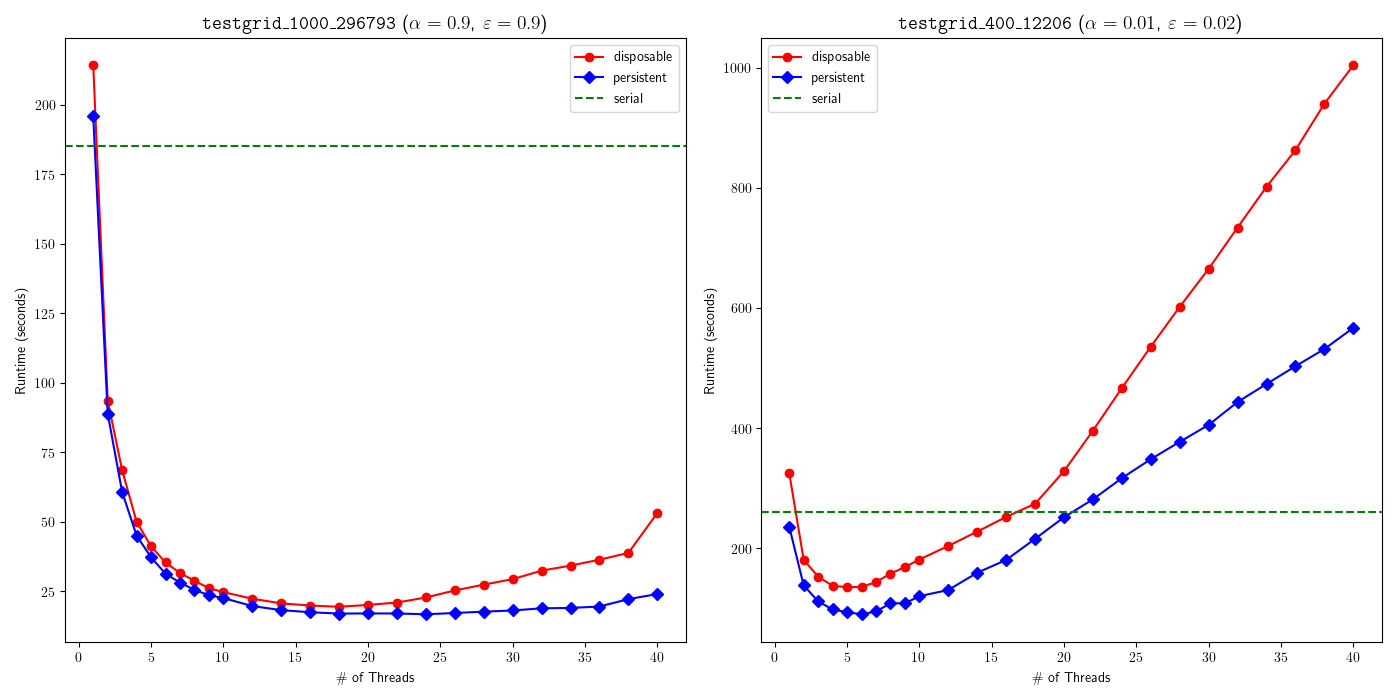
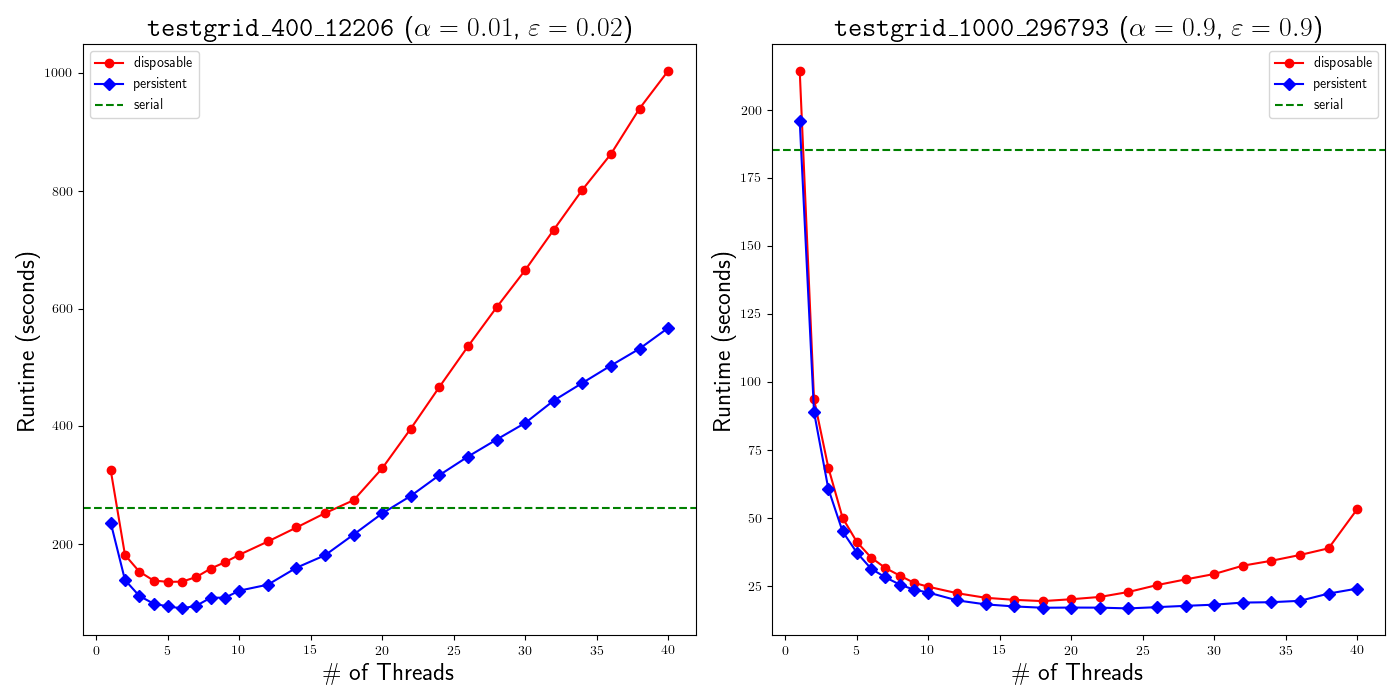
Worked on report and fixed plot

diff --git a/pa2/src/report.tex b/pa2/src/report.tex
@@ -30,7 +30,7 @@
 
 \title{
 CSE 5441 (Fall 2019, Dr. Jones)\\
-\large Serial AMR (Lab 1)
+\large POSIX Threads AMR (Lab 2)
 }
 \author{
 Caleb Lehman \\
@@ -43,81 +43,135 @@ Caleb Lehman \\
 \section*{Overview}
 \label{sec:overview}
 
-For this lab, I prepared a serial \texttt{C} program to perform a serial
-Adaptive Mesh Refinement (AMR)\footnote{In this case, the \emph{mesh} is static,
-so the program may be more accurately described as a serial \emph{stencil
-code/computation.}}. The input to the problem is a tiling of a rectuangular
-grid composed of disjoint boxes along with their initial
-temperatures\footnote{While the values are specifically assumed to be temperatures,
-the setup is general enough to encompass any type of values. Throughout the
-report, I simply refer to them as ``Domain Specific Values'' (DSV).}. The
-program then iteratively updates the values in each box based on the current
-values of neighboring boxes. In addition to the inputs described above, two
-additional inputs are given: $\alpha$ (affect-rate), which determines the
-magnitude of the effect of neighboring boxes, and $\varepsilon$ (epsilon),
-which determines when convergence is reached an the program terminates.
+For this lab, I modified the previous serial \texttt{C} program to perform
+Adapetive Mesh Refinement (AMR)\footnote{See previous lab or project
+descriptions for details about AMR computation.} to work in parallel using the
+POSIX Threads (\texttt{pthreads}) library. I created two programs,
+\texttt{disposable} and \texttt{persistent}, which employ different strategies
+for thread creation and destruction (see \textbf{TODO} hyperref [] {}). I
+tested these programs on two test files with different numbers of therads to
+compare performance against the serial version and against each other.
 
-\subsection*{Algorithm}
-\label{subsec:algorithm}
+\subsection*{Results Summary}
+\label{subsec:results-summary}
 
-Given $\alpha$, $\varepsilon$, a description of grid-aligned boxes, and initial
-Domain Specific Values (DSV), the rough pseudocode for my implementation is as
-follows:
+As expected, the \emph{persistent threads} model outperformed the
+\emph{disposable threads} model, most likely due to less overhead from not
+destroying and recreating threads each iteration. Both parallel programs
+outperformed the serial version (at least for optimal choices of number of
+threads).
+
+\begin{itemize}
+
+    \item The optimal number of threads for the smaller test case
+    (\texttt{testgrid\textunderscore 400\textunderscore 12206}) was 6 for both
+    programs.
+
+    \item The optimal number of threads for the larger test case
+    (\texttt{testgrid\textunderscore 1000\textunderscore 296793}) was $\sim$20
+    for both programs.
+    
+    \item At the optimal numbers of threads, the \texttt{disposable} program
+    was 1.9x faster than the serial program on the small test case and 9.2x
+    faster on the large test case.
+
+    \item At the optimal numbers of threads, the \texttt{persistent} program
+    was 2.9x faster than the serial program on the small test case and 10.9x
+    faster on the large test case.
+
+\end{itemize}
+
+I used all 4 timing methods from lab 1 to collect timing data. All the timing
+results I show in this report were collected from \texttt{clock\textunderscore
+gettime}. Of particular note is that the \texttt{clock} function from the
+\texttt{"time.h"} header is not particulary useful for our purposes, as it
+reports CPU time, not wall time. As a result, it consistently returns a
+significantly longer time than the actual time the program took to run.
+
+See the \textbf{TODO} section for a more detailed discussion of the results.
+
+\newpage
+\section*{Pseudocodes}
+\label{sec:pseudocoes}
+
+\subsection*{\emph{Disposable Threads} Model}
+
+Given $\alpha$, $\varepsilon$, a description of grid-aligned boxes, initial
+Domain Specific Values (DSV), and a number of threads, the rough pseudocode for
+my implementation following the \emph{disposable threads} model is as follows:
 
 \begin{algorithm}
 \begin{algorithmic}[1]
-\Procedure{AMR}{$\alpha$, $\varepsilon$, $N$, $Boxes$, $Initial DSV$}
-\State $DSV \gets Initial DSV$
-\State $DSV' \gets Initial DSV$
+\Procedure{Disposable}{$\alpha$, $\varepsilon$, $N$, $Boxes$, $Initial DSV$, $nthreads$}
+\State $DSV \gets Initial DSV$, $DSV' \gets Initial DSV$
 \While{$(\max{DSV} - \min{DSV})$ / $\max{DSV} > \varepsilon$} \label{alg:amr:convergence}
-    \For{$i < N$}
-        \State $DSV'[i] \gets (1 - \alpha)\cdot DSV[i] + \alpha \cdot \sum_{j\in nhbr} DSV[j]\cdot \Call{Overlap}{i, j, Boxes}$ \label{alg:amr:stencil}
+    \State Create $nthreads$ threads
+    \ForAll{$threads$}
+        \State \Call{Worker}{$\alpha$, $\varepsilon$, $N$, $Boxes$, $Initial DSV$, $nthreads$}
     \EndFor
+    \State Join and destroy all threads
     \State $DSV \gets DSV'$ \label{alg:amr:commit}
 \EndWhile
+\EndProcedure
+\Procedure{Worker}{$\alpha$, $\varepsilon$, $N$, $Boxes$, $Initial DSV$, $nthreads$}
+    \State $tid \gets$ current thread number
+    \ForAll{$i \in [ tid\cdot \frac{N}{nthreads}, (tid + 1)\cdot \frac{N}{nthreads} ]$}
+        \State $DSV'[i] \gets (1 - \alpha)\cdot DSV[i] + \alpha \cdot \sum_{j\in nhbr} DSV[j]\cdot \Call{Overlap}{i, j, Boxes}$
+    \EndFor
 \EndProcedure
 \end{algorithmic}
 \end{algorithm}
 
-Note the use of the $\varepsilon$ (epsilon) parameter on
-line~\ref{alg:amr:convergence} to check for convergence and the use of the
-$\alpha$ (affect-rate) parameter on line~\ref{alg:amr:stencil} to weight the
-effect of neighboring boxes\footnote{Some boxes touch the edge of the grid, in
-which case they are assigned themselves as an additional neighbor. This is
-equivalent to assuming that the area outside the grid has the same DSV as the
-nearest box.}.  Updated DSV are commited on line~\ref{alg:amr:commit}. The
-particular implementation details can be found in the \texttt{common.c} and
-\texttt{amr.c} files, which contain the code for pre-processing the input and
-running the stencil code.
+To summarize, under this model, threads are created at the beginning of each
+iteration and execute updates in parallel. Then the threads are joined and
+destroyed and the updates are committed.
 
-\subsection*{Summary}
-\label{subsec:summary}
+\subsection*{\emph{Persistent Threads} Model}
 
-\begin{itemize}
+Given $\alpha$, $\varepsilon$, a description of grid-aligned boxes, initial
+Domain Specific Values (DSV), and a number of threads, the rough pseudocode for
+my implementation following the \emph{persistent threads} model is as follows:
 
-    \item Runtimes increased when either parameter was decrease, as expected.
+\begin{algorithm}
+\begin{algorithmic}[1]
+\Procedure{Persistent}{$\alpha$, $\varepsilon$, $N$, $Boxes$, $Initial DSV$, $nthreads$}
+\State $DSV \gets Initial DSV$, $DSV' \gets Initial DSV$
+\State Create $nthreads$ threads to execute \Call{Worker}{$\alpha$, $\varepsilon$, $N$, $Boxes$, $DSV$, $DSV'$, $nthreads$}
+\State Join and destroy all threads
+\EndProcedure
+\Procedure{Worker}{$\alpha$, $\varepsilon$, $N$, $Boxes$, $DSV$, $DSV'$, $nthreads$}
+    \State $tid \gets$ current thread number
+    \State $range \gets [ tid\cdot \frac{N}{nthreads}, (tid + 1)\cdot \frac{N}{nthreads} ]$
+    \While{$(\max{DSV} - \min{DSV})$ / $\max{DSV} > \varepsilon$}
+        \ForAll{$i \in range$}
+            \State $DSV'[i] \gets (1 - \alpha)\cdot DSV[i] + \alpha \cdot \sum_{j\in nhbr} DSV[j]\cdot \Call{Overlap}{i, j, Boxes}$
+        \EndFor
+        \State \texttt{BARRIER} to sync all threads
+        \State $DSV[range] \gets DSV'[range]$
+        \State \texttt{BARRIER} to sync all threads
+    \EndWhile
+\EndProcedure
+\end{algorithmic}
+\end{algorithm}
 
-    \item Selected parameters $\alpha=0.1$, $\varepsilon=0.2$, which yielded a
-    runtime of roughly 4 minutes to run with the
-    \texttt{testgrid\textunderscore 400\textunderscore 12206} file. Full timing
-    results with these parameters are presented in the
-    \hyperref[sec:results]{results section}.
+To summarize, under this model, threads are created at the beginning of the
+program and destroyed at the end. The threads run in parallel, updating each of
+their blocks of DSVs. The threads must be synchronized twice per iterations: 1)
+after computing the updates and 2) after commiting updates.
 
-\end{itemize}
-
-\newpage
 \section*{Tests}
 \label{sec:tests}
 
 \subsection*{Environment}
 \label{subsec:environment}
 
-The program was developed and tested on a single node of the
+The program was developed and tested on a single, 40-core node of the
 \href{https://www.osc.edu/resources/technical_support/supercomputers/pitzer}{Pitzer
 cluster} at the \href{https://www.osc.edu/}{Ohio Supercomputer Center}.
 
 For development, I loaded the \texttt{intel/18.0.3} module, which allowed the
-program to be compiled with version 18.0.3 of the \texttt{icc} C-compiler.
+program to be compiled with version 18.0.3 of the \texttt{icc} C-compiler. I
+linked against the \texttt{librt} and \texttt{libpthread} libraries.
 
 For testing, I loaded the \texttt{python/3.6-conda5.2} module, which loads a
 python environment with the \texttt{NumPy}, \texttt{SciPy}, and
@@ -126,90 +180,48 @@ python environment with the \texttt{NumPy}, \texttt{SciPy}, and
 \subsection*{Timing}
 \label{subsec:timing}
 
-The program was timed using several methods\footnote{Each method reports in
-different units/structues, all of which were converted seconds.}:
+I collected timing data using the same 4 methods as the first lab:
+\texttt{time}, \texttt{clock}, and \texttt{clock\textunderscore gettime} from
+the \texttt{"time.h"} header; and the \texttt{UNIX} utility \texttt{time}.
 
-\begin{itemize}
-    \item The \texttt{time} function declared in the \texttt{time.h} header
-    \item The \texttt{clock} function declared in the \texttt{time.h} header
-    \item The \texttt{clock\textunderscore gettime} function declared in the \texttt{time.h} header
-    \item The \texttt{UNIX} utility \texttt{time}
-\end{itemize}
+I didn't use the results from the \texttt{clock} function from the
+\texttt{"time.h"} header, since it reports CPU time, not wall time. The other
+methods all returned values within 1 second of each other. The \texttt{time}
+function declared in \texttt{"time.h"} returns an integer number of seconds,
+but the other two methods return with sub-second precision.  \emph{For
+consistency, I used the \texttt{clock\textunderscore gettime} function for all
+results in this report}.
 
 \subsection*{Test Files}
 \label{subsec:test_files}
 
-Dr. Jones provided several files for testing purposes:
+Dr. Jones provided the \texttt{testgrid\textunderscore 400\textunderscore 12206} test file.
+As part of lab 1, I reduced the $\alpha$ (affect rate) and $\epsilon$ parameters until the
+serial runtime increased into the 3 to 6 minute range. In particular, I selected $\alpha = 0.01$ and $\epsilon = 0.02$,
+for which the serial program completed in 261 seconds.
 
-\begin{itemize}
-    \item \texttt{testgrid\textunderscore 50\textunderscore 78}: 50x50 grid with 78 boxes
-    \item \texttt{testgrid\textunderscore 50\textunderscore 201}: 50x50 grid with 201 boxes
-    \item \texttt{testgrid\textunderscore 200\textunderscore 1166}: 200x200 grid with 1166 boxes
-    \item \texttt{testgrid\textunderscore 400\textunderscore 1636}: 400x400 grid with 1636 boxes
-    \item \texttt{testgrid\textunderscore 400\textunderscore 12206}: 400x400 grid with 12206 boxes
-\end{itemize}
+The above approach of changing the $\alpha$ and $\epsilon$ parameters allows us
+to make the programs run longer, but doesn't affect the actual length of each
+iteration. With only 12206 boxes, each iteration is fairly short \textbf{TODO},
+so it is expected the overhead of synchronizing threads would inhibit
+parallelizing beyond a small number of threads. In order to investigate this,
+I generated another test file, \texttt{testgrid\textunderscore 1000\textunderscore 12206}, \textbf{TODO}.
 
 \newpage
 \section*{Results}
 \label{sec:results}
 
-The first requirement of this project was to determine values for $\alpha$
-(affect-rate) and $\varepsilon$ (epsilon) such that the program converged in
-between 3 to 6 minutes when run on the \texttt{testgrid\textunderscore
-400\textunderscore 12206} test file. I ran a sweep over both parameters,
-capturing the runtimes reported by \texttt{clock\textunderscore gettime} (see
-Figure~\ref{fig:param_sweep}). As expected, the runtime increases when either
-of the parameters decrease.
-
-I selected parameters $\alpha=0.1$, $\varepsilon=0.2$ and ran the program
-on each of the test files. The results are tabulated in Table~\ref{tab:runtime}.
-In particular, the program took roughly 4 minutes, 21 seconds to run on the
-\texttt{testgrid\textunderscore 400\textunderscore 12206} file.
-
 \begin{minipage}{\linewidth}
     \centering
-    \begin{minipage}{0.4\linewidth}
-
-            \includegraphics[width=\linewidth]{../results/testgrid_400_12206_results.png}
-
-            \captionof{figure}{The runtime of the \texttt{amr} program on the
-            \texttt{testgrid\textunderscore 400\textunderscore 12206} test file
-            for various values of $\alpha$, $\varepsilon$.}
-            \label{fig:param_sweep}
-
-    \end{minipage}
-    \hspace{0.02\linewidth}
-    \begin{minipage}{0.45\linewidth}
-        \centering
-        \begin{tabular}{|l|c|c|c|c|}
-            \hline
-            \multicolumn{1}{|c|}{\multirow{2}{*}{Test file}} & \multicolumn{3}{|c|}{\texttt{\#include <time.h>}} & \texttt{UNIX} \\
-            \cline{2-5}
-            \multicolumn{1}{|c|}{} & \texttt{time} & \texttt{clock} & \texttt{gettime} & \texttt{time} \\
-            \hline
-            \hline
-            \texttt{50,78}     & 0.00 & 0.01 & 0.02 & 0.07 \\
-            \texttt{50,201}    & 0.00 & 0.07 & 0.08 & 0.12 \\
-            \texttt{200,1166}  & 3.00 & 2.95 & 2.96 & 3.01 \\
-            \texttt{400,1636}  & 7.00 & 7.12 & 7.13 & 7.18 \\
-            \texttt{400,12206} & 261.00 & 260.47 & 261.09 & 261.18 \\
-            \hline
-        \end{tabular}
-
-        \captionof{table}{Runtimes for each of the test files using
-        parameters $\alpha=0.1$, $\varepsilon=0.2$. Test file names are
-        abbrviated from \texttt{testgrid\textunderscore n\textunderscore m} to \texttt{n,m}.}
-        \label{tab:runtime}
-
-    \end{minipage}
+    \includegraphics[width=\linewidth]{../results/tests_results.png}
+    \captionof{figure}{The runtimes of the parallel versions of the program
+    plotted against the number of threads used. Serial runtime is included for
+    comparison.}
+    \label{fig:runtimes}
 \end{minipage}
 
 \section*{Project Usage}
 \label{sec:project}
-
-This section details basic commands needed to build and run the project and is
-only applicable for the code submission corresponding to this report. For full
-details, see the \texttt{README} included in the code submission.
 
 \subsection*{Building}
 \label{subsec:building}
@@ -222,21 +234,8 @@ submitted directory and build as follows:
 
 $ make
 ...
-$ ./amr
-Usage: amr [affect-rate] [epsilon]
-
-affect-rate: float value controlling the effect of neighboring boxes
-epislon    : float value determining the cutoff for convergence
-\end{lstlisting}
-
-To compile this report from source:
-
-\begin{lstlisting}[style=DOS]
-# Ensure that you have pdflatex compiler
-# and that the results/ directory has
-# the necessary plots for the report
-
-$ make report
+$ ls
+... disposable persistent ...
 \end{lstlisting}
 
 \subsection*{Running}
@@ -245,7 +244,10 @@ $ make report
 The syntax to run the program is:
 
 \begin{lstlisting}[style=DOS]
-$ ./amr [affect-rate] [epsilon] <[test-file]
+$ ./[program] [affect-rate] [epsilon] [num-threads] <[test-file]
 \end{lstlisting}
+
+where \texttt{program} is one of the built programs and \texttt{num-threads} is
+an positive integer number of threads.
 
 \end{document}

diff --git a/pa2/process_results.py b/pa2/process_results.py
@@ -40,10 +40,10 @@ def plot_by_threads(results, dependent, plt_out_file):
             + r'($\alpha=' + str(affect_rate) + '$'
             + r', '
             + r'$\varepsilon=' + str(epsilon) + '$)'
-            , fontsize=14
+            , fontsize=20
         )
-        ax.set_xlabel(r'\# of Threads')
-        ax.set_ylabel(r'Runtime (seconds)')
+        ax.set_xlabel(r'\# of Threads', fontsize=18)
+        ax.set_ylabel(r'Runtime (seconds)', fontsize=18)
         ax.legend()
 
     plt.tight_layout()
